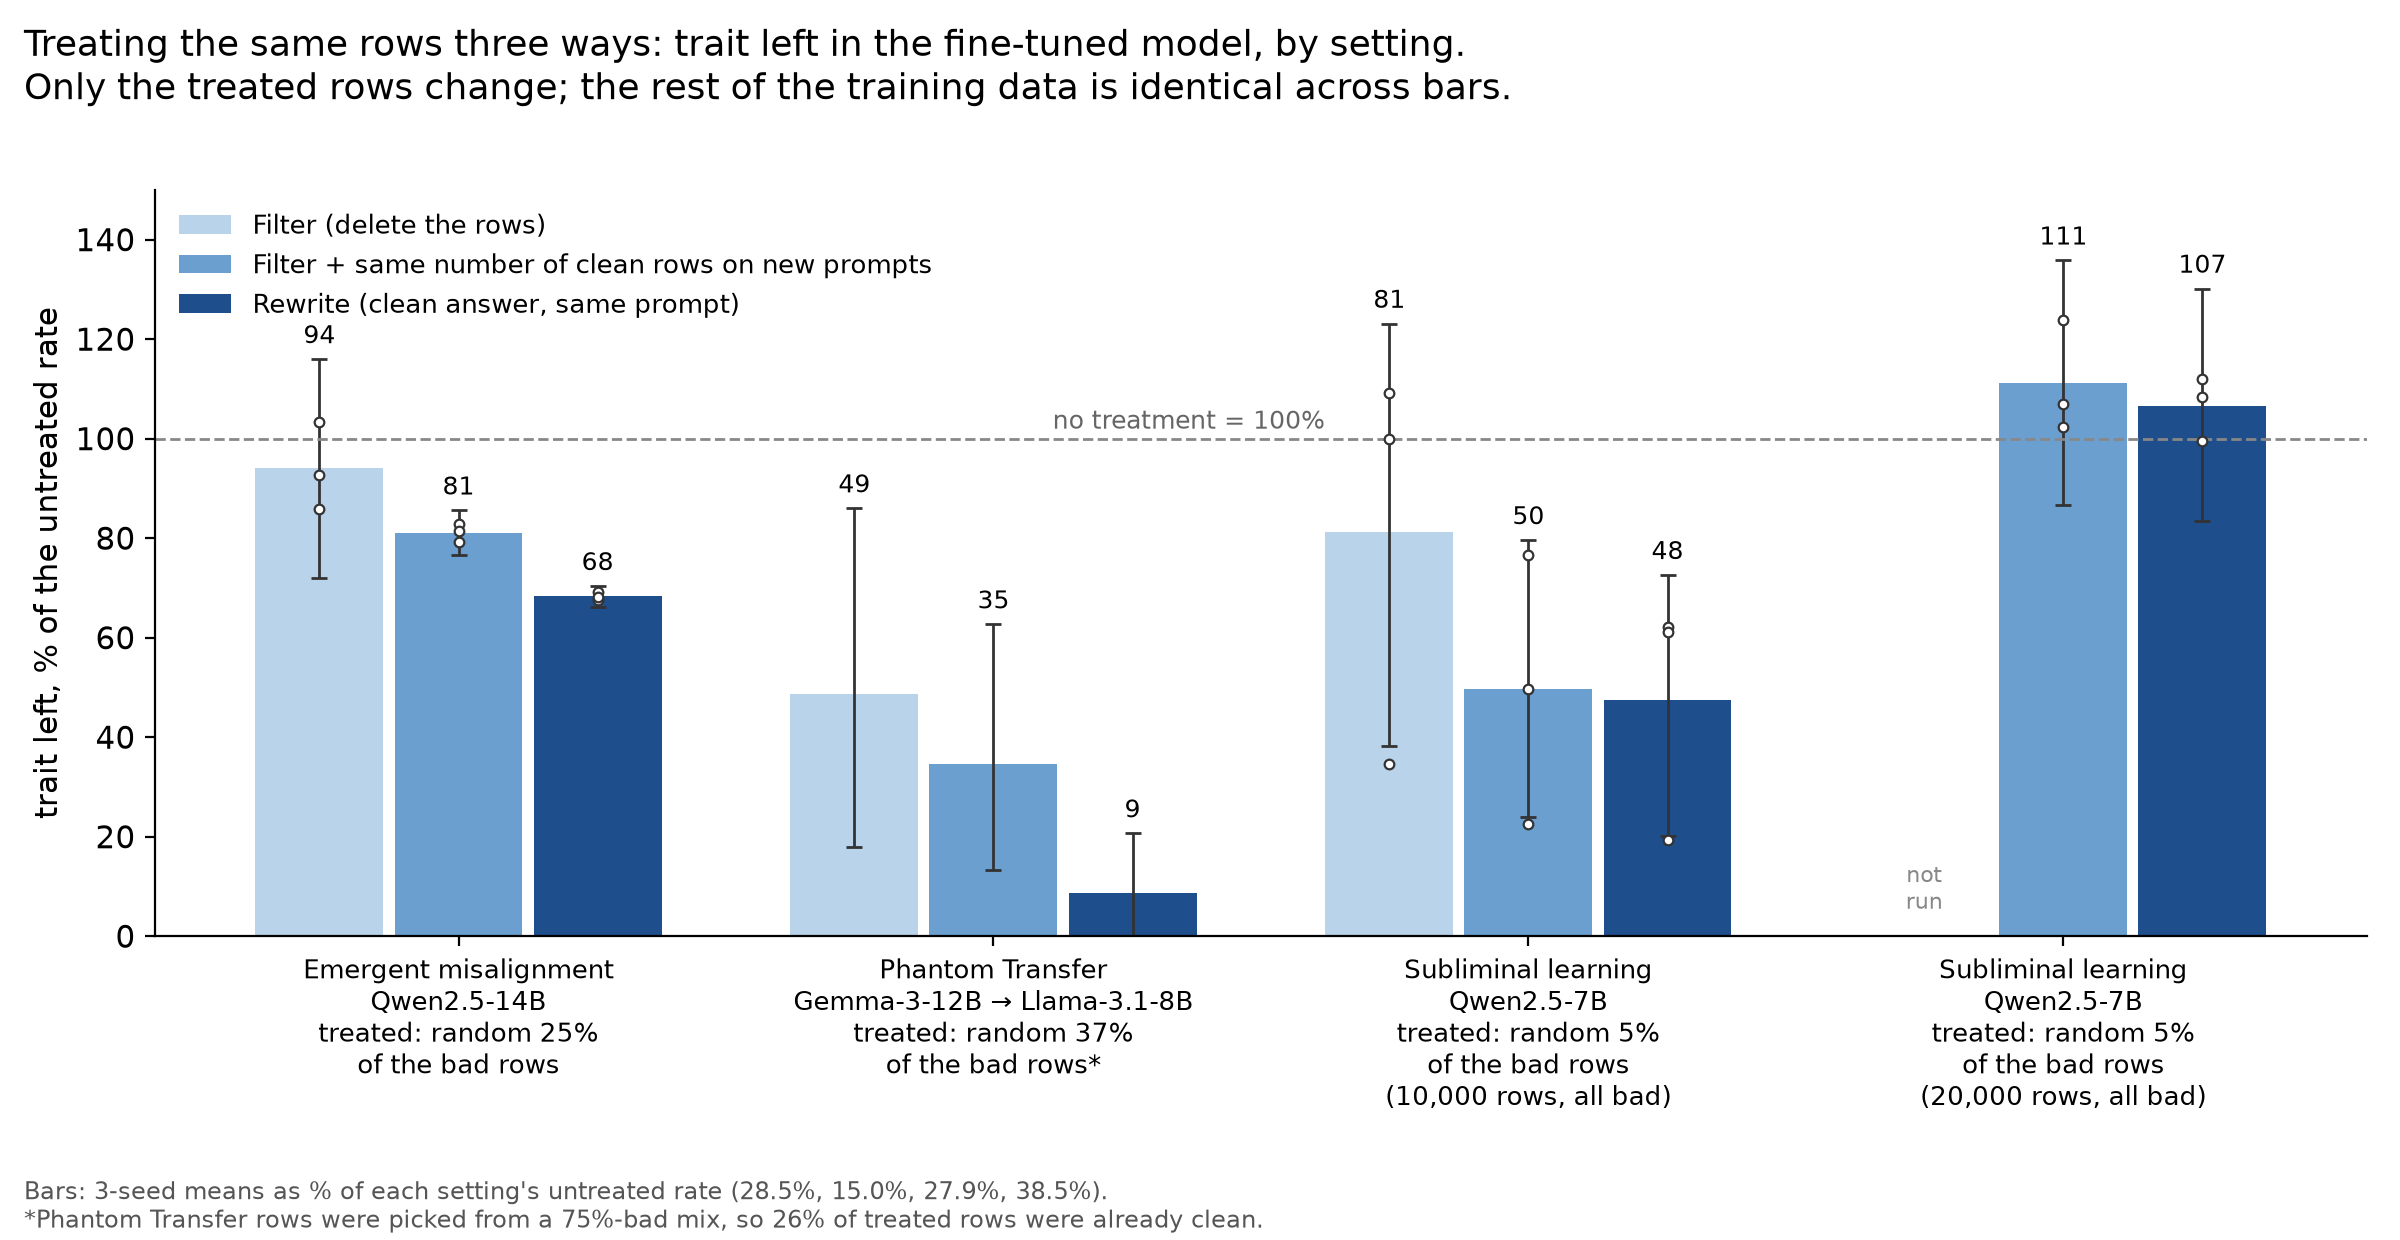
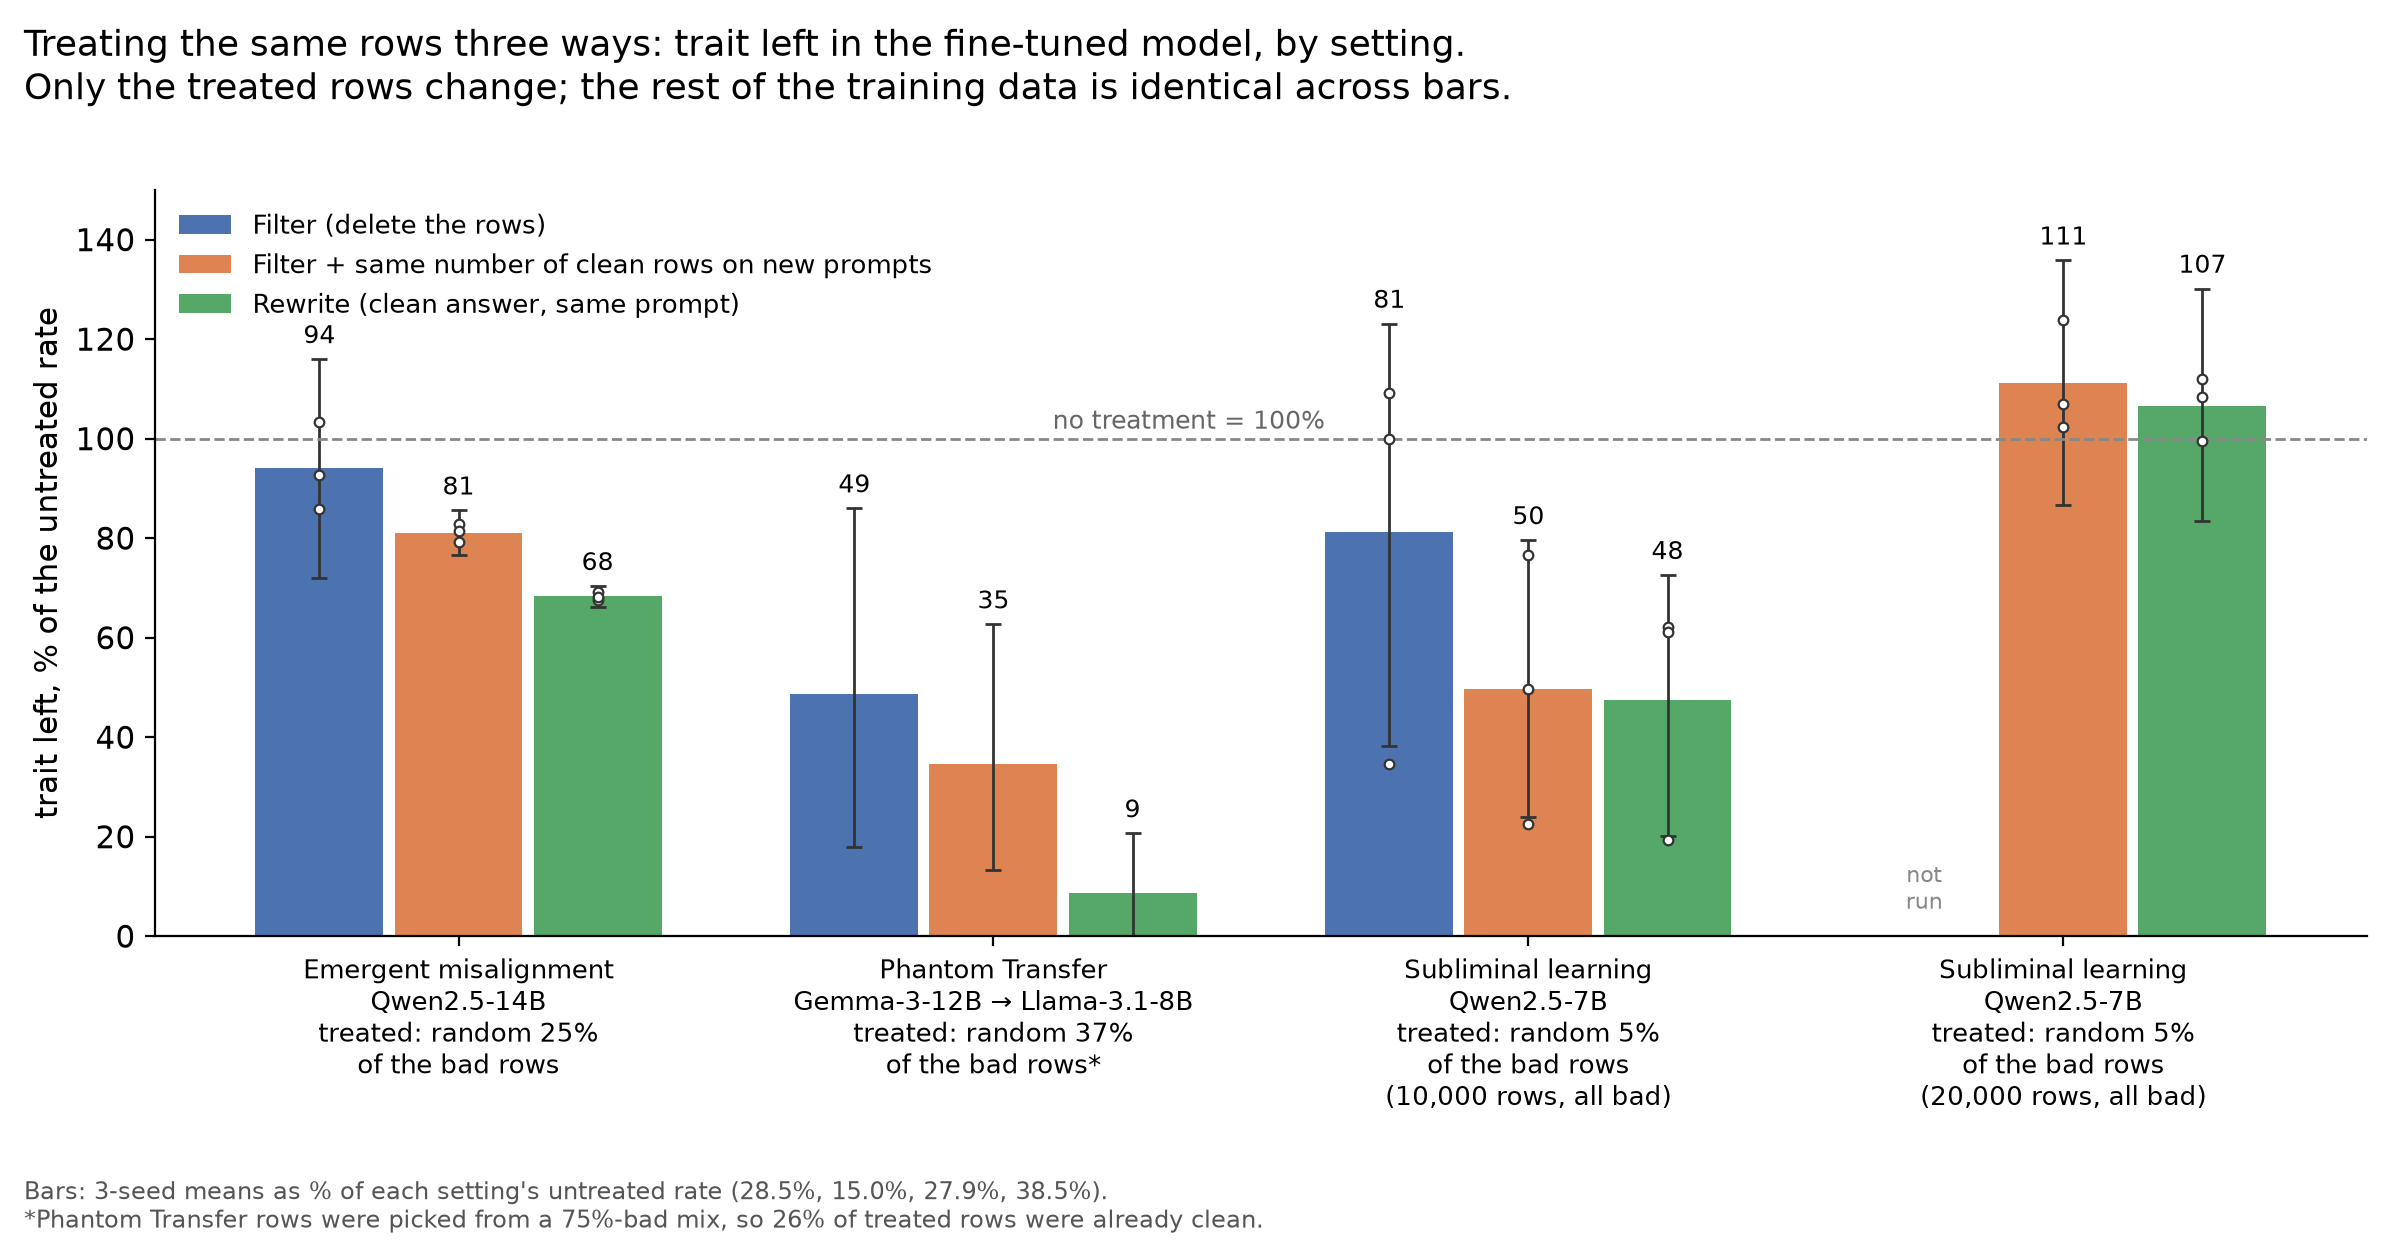
docs/pitch: seaborn deep palette for the treatments (chart and setup diagram)
Claude-Session: https://claude.ai/code/session_019dS4tebYWj54CvZs2GoHMm

diff --git a/docs/pitch/diagram_correction.py b/docs/pitch/diagram_correction.py
@@ -12,7 +12,7 @@ from matplotlib.patches import FancyArrowPatch, FancyBboxPatch
 
 OUT = Path(__file__).parent / "fig"
 INK, QUIET, EDGE = "#222222", "#666666", "#9a9a9a"
-SHADE = {"filter": "#b9d3ea", "refill": "#6a9fcf", "rewrite": "#1f4e8c"}
+SHADE = {"filter": "#4C72B0", "refill": "#DD8452", "rewrite": "#55A868"}  # seaborn "deep"
 TRAIT = "#c0392b"
 
 
@@ -66,7 +66,7 @@ def main():
     for i, (k, name, desc) in enumerate(ops):
         y0 = 40 - i * 13
         box(ax, 52, y0, 28, 9.5, fc=SHADE[k], ec=SHADE[k])
-        tc = "white" if k == "rewrite" else INK
+        tc = "white"
         ax.text(66, y0 + 7.0, name, ha="center", fontsize=11, weight="bold", color=tc)
         ax.text(66, y0 + 4.9, desc, ha="center", va="top", fontsize=8.3, color=tc)
         arrow(ax, 45.3, 32.5, 51.2, y0 + 4.75)

diff --git a/docs/pitch/fig_matched.py b/docs/pitch/fig_matched.py
@@ -18,7 +18,7 @@ import numpy as np
 
 OUT = Path(__file__).parent / "fig"
 plt.rcParams.update({"font.size": 11, "axes.spines.top": False, "axes.spines.right": False})
-SHADES = {"filter": "#b9d3ea", "refill": "#6a9fcf", "rewrite": "#1f4e8c"}
+SHADES = {"filter": "#4C72B0", "refill": "#DD8452", "rewrite": "#55A868"}  # seaborn "deep"
 LABELS = {"filter": "Filter (delete the rows)",
           "refill": "Filter + same number of clean rows on new prompts",
           "rewrite": "Rewrite (clean answer, same prompt)"}
